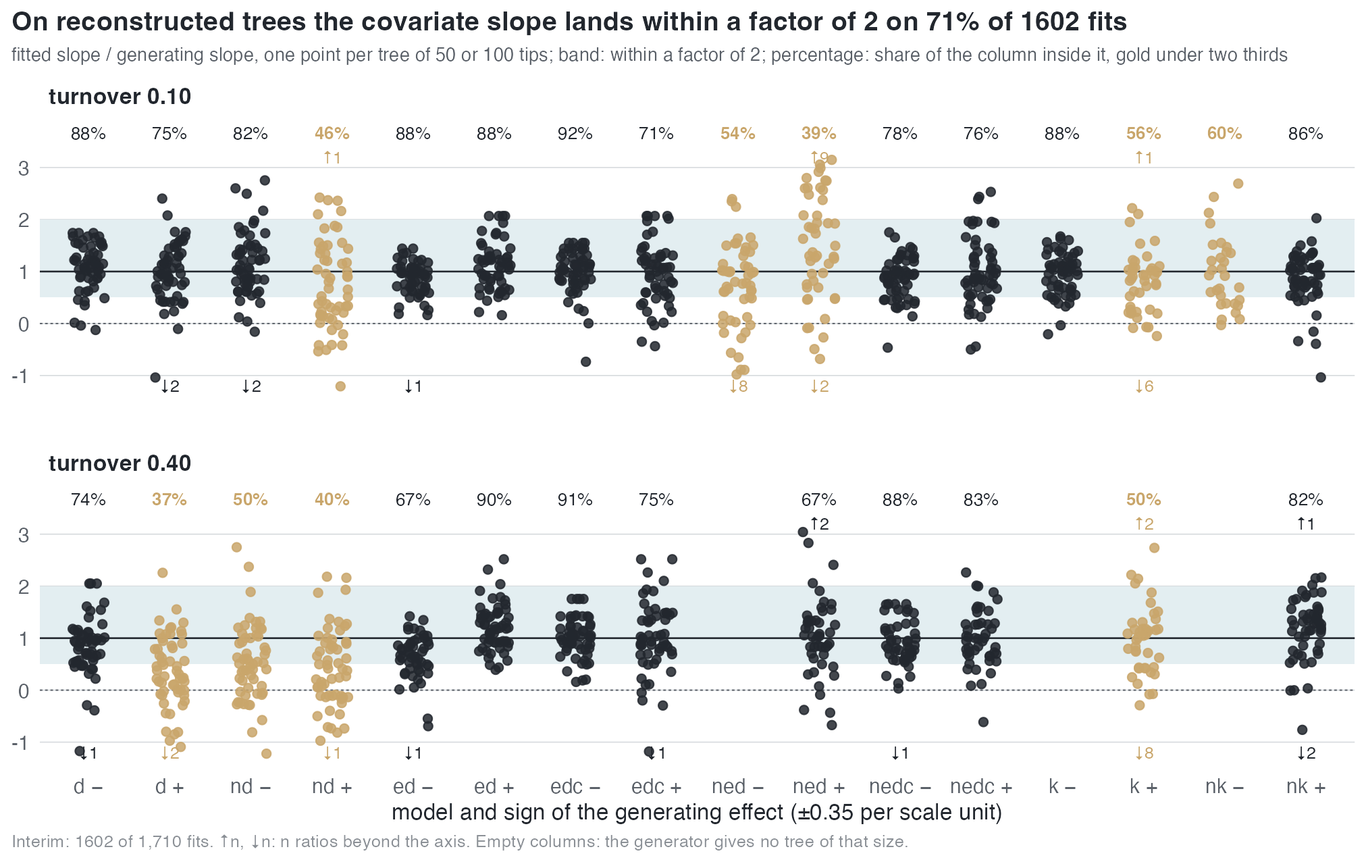
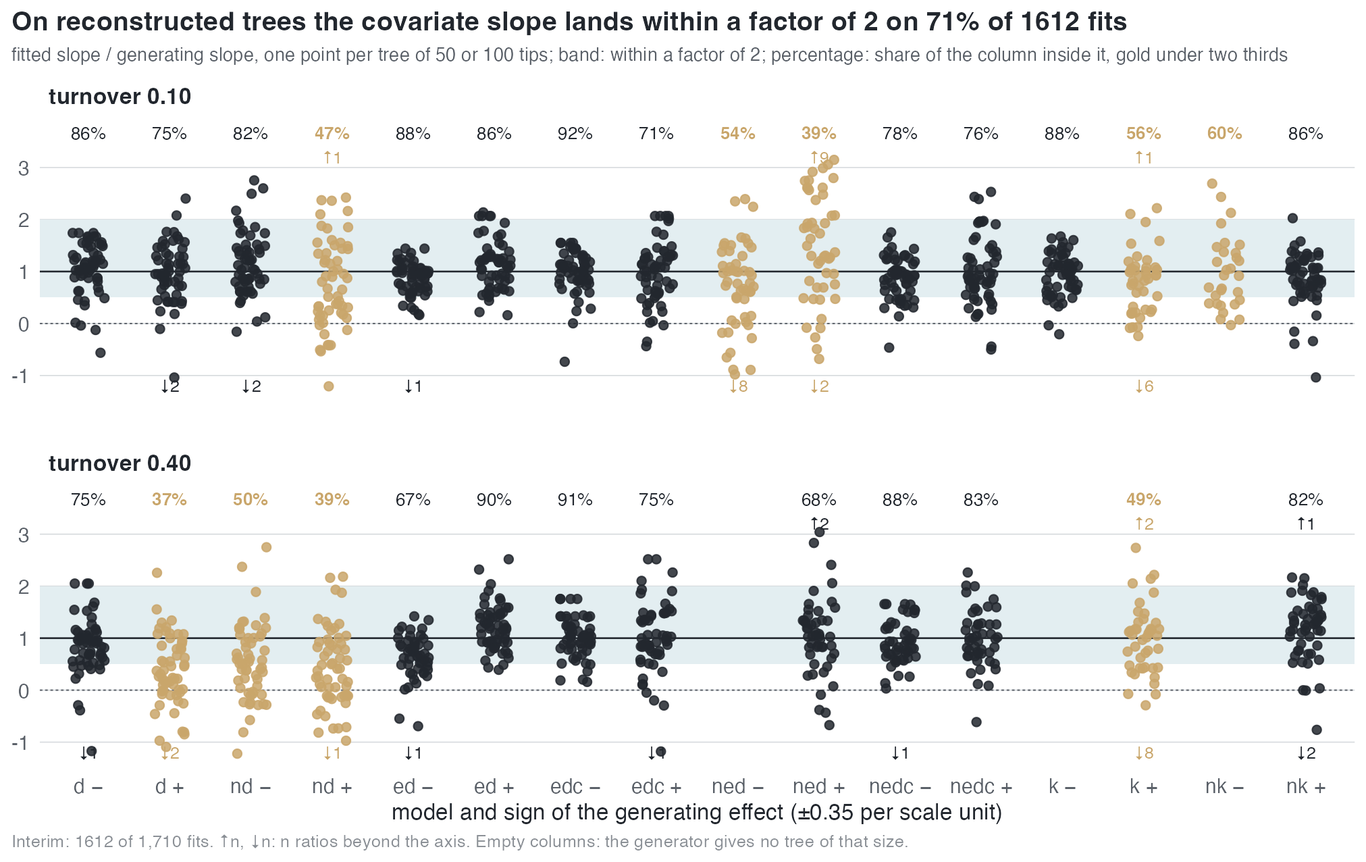
Site rebuilt: state of 23 November (400 tips: nd read; V11b final; V11c interim)

diff --git a/docs/experiments/V5.html b/docs/experiments/V5.html
@@ -58,7 +58,7 @@ window.MathJax = {
 </li>
 <li><a href="#200-tips-v5b">200 tips (V5b)</a>
 </li>
-<li><a href="#400-tips-amendment-of-21-november-running">400 tips (amendment of 21 November), running</a>
+<li><a href="#400-tips-amendment-of-21-november">400 tips (amendment of 21 November)</a>
 </li>
 <li><a href="#the-200--and-400-tip-cells-amendments-of-18-november">The 200- and 400-tip cells (amendments of 18 November)</a>
 </li>
@@ -69,7 +69,7 @@ window.MathJax = {
 <tbody>
 <tr>
 <td>Status</td>
-<td>50 and 100 tips: running, 1,668 of 1,710 fits written on 21 November, 53 of 57 cells read (interim). 200 tips: sampler gate complete (15 of 28 cells pass, <code>d</code> and <code>nd</code> on the surrogate), 450 fits submitted on Bre (array <code>v5b</code>, start after the maintenance of 20 November). 400 tips: gate complete (8 of 24 pass); fits follow the 200-tip reading</td>
+<td>50 and 100 tips: running, 1,678 of 1,710 fits written on 23 November, 54 of 57 cells read (interim). 200 tips: sampler gate complete (15 of 28 cells pass, <code>d</code> and <code>nd</code> on the surrogate), 450 fits submitted on Bre (array <code>v5b</code>, start after the maintenance of 20 November). 400 tips: gate complete (8 of 24 pass); fits follow the 200-tip reading</td>
 </tr>
 <tr>
 <td>Series</td>
@@ -118,16 +118,21 @@ window.MathJax = {
 <h2 id="pre-set-rules">Pre-set rules</h2>
 <p>E46's. A cell is read when at least 80% of its fits finished (converged or on the cap) and the median final effective sample is at least 10. A coefficient is <em>reliable</em> in a cell when the median ratio to its generating value lies in [0.8, 1.25] and the central 80% of ratios within [0.5, 2]; <em>identified</em> when reliable with the right sign on at least 95% of trees. The answer is the smallest size from which each coefficient is reliable.</p>
 <h2 id="results">Results</h2>
-<p><em>Interim, 21 November: 1,668 of 1,710 fits at 50 and 100 tips; 1,602 finished (246 met the stopping rule, 1,356 on the iteration cap, read as the estimate), 65 on the 22-hour clock.</em> A cell is read when at least 24 of its 30 fits finished and its median final effective sample is at least 10: 53 of 57 cells. Table 6 of the methods paper (built by <code>report/paper-tables.R</code>) gives every cell as of 19 November.</p>
+<p><em>Interim, 23 November: 1,678 of 1,710 fits at 50 and 100 tips; 1,612 finished (246 met the stopping rule, 1,366 on the iteration cap, read as the estimate), 65 on the 22-hour clock.</em> A cell is read when at least 24 of its 30 fits finished and its median final effective sample is at least 10: 54 of 57 cells. Table 6 of the methods paper (built by <code>report/paper-tables.R</code>) gives every cell as of 19 November.</p>
 <ul>
-<li><strong>Covariate slopes.</strong> Of 78 slope cells read, 20 meet rule 2, and all 20 are also identified (sign right on at least 95%). <span class="math inline">\(\beta_N\)</span>: at turnover 0.10 in 6 of 7 cells at 100 tips (<code>nd</code> and <code>nedc</code> at both signs, <code>ned</code> and <code>nk</code> at <span class="math inline">\(+0.35\)</span>) and 4 of 8 at 50 (<code>ned</code> and <code>nk</code> at <span class="math inline">\(+0.35\)</span>, <code>nedc</code> at both signs); at turnover 0.40 in none of 10. <span class="math inline">\(\beta_{ED}\)</span>: <code>ed</code> (turnover 0.10 both signs, 0.40 at <span class="math inline">\(+0.35\)</span>), <code>edc</code> (<span class="math inline">\(-0.35\)</span> at both turnovers) and <code>nedc</code> (<span class="math inline">\(-0.35\)</span>, turnover 0.40), all at 100 tips; none in <code>ned</code>. <span class="math inline">\(\beta_K\)</span>: <code>k</code> at <span class="math inline">\(-0.35\)</span> and <code>nk</code> at <span class="math inline">\(+0.35\)</span>, 100 tips, turnover 0.10. <span class="math inline">\(\beta_D\)</span>: <code>d</code> and <code>nd</code> at <span class="math inline">\(-0.35\)</span>, 100 tips, turnover 0.10.</li>
-<li><strong>Intercepts.</strong> <span class="math inline">\(\beta_0\)</span> meets the rule in 24 of 53 cells, in none of the 10 cells of an <span class="math inline">\(N\)</span> model at turnover 0.40. <span class="math inline">\(\gamma_0\)</span> meets it in none; within a factor of 2 on a median 7% of a cell's fits.</li>
-<li><strong>Not read.</strong> <code>k</code> at <span class="math inline">\(+0.35\)</span> (100 tips, turnover 0.10), and at turnover 0.40 and 100 tips <code>ed</code> <span class="math inline">\(-0.35\)</span>, <code>ned</code> <span class="math inline">\(+0.35\)</span> and <code>nedc</code> <span class="math inline">\(+0.35\)</span> (each with 22 or 23 of 30 fits finished).</li>
+<li><strong>Covariate slopes.</strong> Of 80 slope cells read, 21 meet rule 2, and all 21 are also identified (sign right on at least 95%). <span class="math inline">\(\beta_N\)</span>: at turnover 0.10 in 6 of 7 cells at 100 tips (<code>nd</code> and <code>nedc</code> at both signs, <code>ned</code> and <code>nk</code> at <span class="math inline">\(+0.35\)</span>) and 4 of 8 at 50 (<code>ned</code> and <code>nk</code> at <span class="math inline">\(+0.35\)</span>, <code>nedc</code> at both signs); at turnover 0.40 in none of 11. <span class="math inline">\(\beta_{ED}\)</span>: <code>ed</code> (turnover 0.10 both signs, 0.40 at <span class="math inline">\(+0.35\)</span>), <code>edc</code> (<span class="math inline">\(-0.35\)</span> at both turnovers), all at 100 tips, and <code>nedc</code> at turnover 0.40 (<span class="math inline">\(-0.35\)</span> at 100 tips, <span class="math inline">\(+0.35\)</span> at 50); none in <code>ned</code>. <span class="math inline">\(\beta_K\)</span>: <code>k</code> at <span class="math inline">\(-0.35\)</span> and <code>nk</code> at <span class="math inline">\(+0.35\)</span>, 100 tips, turnover 0.10. <span class="math inline">\(\beta_D\)</span>: <code>d</code> and <code>nd</code> at <span class="math inline">\(-0.35\)</span>, 100 tips, turnover 0.10.</li>
+<li><strong>Intercepts.</strong> <span class="math inline">\(\beta_0\)</span> meets the rule in 24 of 54 cells, in none of the 11 cells of an <span class="math inline">\(N\)</span> model at turnover 0.40. <span class="math inline">\(\gamma_0\)</span> meets it in none; within a factor of 2 on a median 7% of a cell's fits.</li>
+<li><strong>Not read.</strong> <code>k</code> at <span class="math inline">\(+0.35\)</span> (100 tips, turnover 0.10), and at turnover 0.40 and 100 tips <code>ed</code> <span class="math inline">\(-0.35\)</span> and <code>nedc</code> <span class="math inline">\(+0.35\)</span>: budget-limited, 22 or 23 of 30 fits finished and the rest on the clock.</li>
 </ul>
 <h2 id="200-tips-v5b">200 tips (V5b)</h2>
 <p><em>22 November: 448 of 450 fits written, 442 finished (the rest on the 44-hour clock); 14 of 15 cells read. <code>d</code> <span class="math inline">\(-0.35\)</span> at turnover 0.40 is sampler-limited (median final effective sample 8.2).</em> Of the 20 slope cells read, 8 are identified: <span class="math inline">\(\beta_D\)</span> of <code>d</code> at both signs and of <code>nd</code> at <span class="math inline">\(-0.35\)</span>; <span class="math inline">\(\beta_N\)</span> of <code>nd</code> at <span class="math inline">\(-0.35\)</span> and of <code>ned</code> at <span class="math inline">\(+0.35\)</span>; <span class="math inline">\(\beta_{ED}\)</span> of <code>edc</code> at <span class="math inline">\(-0.35\)</span> and of <code>ed</code> at <span class="math inline">\(+0.35\)</span> at both turnovers; all at turnover 0.10 except <code>ed</code> at 0.40. Against 100 tips, <code>d</code> <span class="math inline">\(+0.35\)</span> is identified at 200 and not at 100, and <code>nd</code> <span class="math inline">\(+0.35\)</span>'s <span class="math inline">\(\beta_N\)</span> is identified at 100 and not at 200 (median ratio 1.00, 10th percentile 0.44). At turnover 0.40 <code>nd</code>'s <span class="math inline">\(\beta_N\)</span> has a negative median ratio, and only <code>ed</code> <span class="math inline">\(+0.35\)</span> is identified. <span class="math inline">\(\beta_0\)</span> meets the rule in 12 of 14 cells, <span class="math inline">\(\gamma_0\)</span> in none.</p>
-<h2 id="400-tips-amendment-of-21-november-running">400 tips (amendment of 21 November), running</h2>
-<p>Three cells pass the gate and have a slope not reliable at 200 tips: <code>nd</code> <span class="math inline">\(+0.35\)</span> and <code>edc</code> <span class="math inline">\(+0.35\)</span> at turnover 0.10, <code>d</code> <span class="math inline">\(+0.35\)</span> at 0.40; the other five passing cells were identified at 200 and are not fitted at 400. <em>Interim, 22 November: <code>nd</code> <span class="math inline">\(+0.35\)</span> has 19 of 30 fits (a cell is read from 24).</em> So far <span class="math inline">\(\beta_D\)</span> has a median ratio of 1.09 with its 10th to 90th percentiles at 0.58 to 1.42 (at 200 tips: 1.03, 0.29 to 1.82), and <span class="math inline">\(\beta_N\)</span> 0.85 with 0.59 to 1.37 (at 200: 1.00, 0.44 to 1.33). <code>edc</code> and <code>d</code> started on 22 November.</p>
+<h2 id="400-tips-amendment-of-21-november">400 tips (amendment of 21 November)</h2>
+<p>Three cells pass the gate and have a slope not reliable at 200 tips: <code>nd</code> <span class="math inline">\(+0.35\)</span> and <code>edc</code> <span class="math inline">\(+0.35\)</span> at turnover 0.10, <code>d</code> <span class="math inline">\(+0.35\)</span> at 0.40; the other five passing cells were identified at 200 and are not fitted at 400.</p>
+<ul>
+<li><strong><code>nd</code> <span class="math inline">\(+0.35\)</span>, read (29 of 30 fits, 23 November).</strong> Both slopes are identified: <span class="math inline">\(\beta_D\)</span> at a median ratio of 1.05 (10th to 90th percentile 0.55 to 1.42) and <span class="math inline">\(\beta_N\)</span> at 0.92 (0.60 to 1.30), right sign on every tree; at 200 tips neither met the rule (<span class="math inline">\(\beta_D\)</span> 0.29 to 1.82, <span class="math inline">\(\beta_N\)</span> 0.44 to 1.33).</li>
+<li><strong><code>edc</code> <span class="math inline">\(+0.35\)</span>, filling (19 of 30).</strong> So far <span class="math inline">\(\beta_{ED}\)</span> at 1.00 (0.72 to 1.41).</li>
+<li><strong><code>d</code> <span class="math inline">\(+0.35\)</span> at turnover 0.40</strong>: queued.</li>
+</ul>
 <h2 id="the-200--and-400-tip-cells-amendments-of-18-november">The 200- and 400-tip cells (amendments of 18 November)</h2>
 <p><strong>The gate</strong> (<code>sim/V5g.R</code>, <code>results/V5g/gate.csv</code>): on every reachable cell at 200 and 400 tips, the effective sample of 2,400 draws at the generating values on the 30 trees V5 fits, with the fit's proposal. With thinning, the default for <code>d</code> and <code>nd</code>, 7 of their 8 cells keep a median of 1.7 to 7.5 effective draws at 200 tips; the surrogate keeps 143 to 620 on every <code>nd</code> cell and 16 to 256 on every <code>d</code> cell. By the evening amendment <code>d</code> and <code>nd</code> are fitted and gated on the surrogate at 200 and 400 tips, and <code>k</code> at <span class="math inline">\(+0.35\)</span> (median 50 and 55 tips at the 200-tip target) is not a 200-tip cell. <strong>Pass at 200 tips (15 of 28):</strong> <code>d</code> and <code>nd</code> (all 8, surrogate), <code>ed</code> <span class="math inline">\(+0.35\)</span> (both turnovers), <code>edc</code> (turnover 0.10 both signs, 0.40 <span class="math inline">\(+0.35\)</span>), <code>ned</code> (turnover 0.10 both signs). <strong>Pass at 400 tips (8 of 24):</strong> <code>d</code> (turnover 0.10 both, 0.40 <span class="math inline">\(+0.35\)</span>), <code>nd</code> (turnover 0.10 both), <code>ed</code> <span class="math inline">\(+0.35\)</span> and <code>edc</code> (turnover 0.10).</p>
 <p><strong>The 200-tip fits</strong> (<code>sim/V5b.R</code>, <code>results/V5b</code>): 450 fits on the 15 passing cells, 44-hour clock, array <code>v5b</code> on Bre.</p>

diff --git a/docs/experiments/estimability.html b/docs/experiments/estimability.html
@@ -84,7 +84,7 @@ window.MathJax = {
 <li><strong>Under diversity dependence the slowdown is read, but not how it divides.</strong> Speciation at low diversity and its slope on diversity are recovered at low turnover; the estimate tilts extinction, which was generated constant, from 0.1–0.35 of the truth early in a clade's history to 1.2–2.9 times the truth today.</li>
 <li><strong>A complete tree carries enough to estimate most covariate slopes.</strong> With the extinct lineages kept, a slope of ±0.35 per scale unit is estimated within about 0.6 to 1.5 times its value at 100 tips, with the right sign on 95% of trees or more, narrowing at 200; the exceptions are weak slopes (the diversity slope at high turnover, <code>ned</code>'s ED slope).</li>
 <li><strong>On a reconstructed tree the sampler decides first.</strong> <code>ned</code>, <code>nedc</code>, <code>ed</code> with a negative effect, and the thinning proposal at high turnover keep about 10 effective draws of 2400 or fewer at the generating values; <code>d</code>, <code>edc</code> and <code>nd</code> on the surrogate proposal keep hundreds.</li>
-<li><strong>On reconstructed trees, the covariate slopes are recovered in a minority of settings, mostly at 100 tips and low turnover.</strong> By the series' rule, 20 of 78 slope cells read at 50 and 100 tips are identified; the diversity slope is identified in no cell at turnover 0.40 and the extinction intercept in none (interim, 1,668 of 1,710 fits). Fit by fit, the slope lies within a factor of 2 of the truth on 71% of 1,602 fits, with the right sign on 90%.</li>
+<li><strong>On reconstructed trees, the covariate slopes are recovered in a minority of settings, mostly at 100 tips and low turnover.</strong> By the series' rule, 21 of 80 slope cells read at 50 and 100 tips are identified; the diversity slope is identified in no cell at turnover 0.40 and the extinction intercept in none (interim, 1,678 of 1,710 fits). Fit by fit, the slope lies within a factor of 2 of the truth on 71% of 1,612 fits, with the right sign on 90%.</li>
 <li><strong>A lineage-level fit rarely stops by rule, and its speciation side has settled when it reaches the cap.</strong> The default rule stops every <code>cr</code> fit and 28 of 280 lineage-level fits; the capped fits' speciation coefficients lie within 2% of the parameter box of a reference run for 7 of 10 models at turnover 0.10, while the extinction coefficients keep drifting. A fit on the 1000-iteration cap is therefore read as the estimate.</li>
 <li><strong>Model choice does not invent a lineage-level effect, and at 100 tips it misses most real ones.</strong> On trees without one, the ladder chose a lineage-level model on 0 of 54; on trees with an effect of ±0.35 it named the generating covariate on 12 of 20 (<code>nk</code>), 10 of 19 (<code>nd</code>) and 1 of 19 (<code>ned</code>) at turnover 0.10, and the 80% rule fails in 18 of 19 cells.</li>
 <li><strong>Conditioning on survival is a small term, but not a free one.</strong> It moves the log-likelihood by -0.01 to -0.2 at the estimates; for the lineage-level models it has to be estimated by simulation at every parameter value the fit visits.</li>
@@ -197,13 +197,13 @@ window.MathJax = {
 </ul>
 <p>The effective sample at a fitted estimate is a different quantity. Where a fit puts the extinction intercept on the lower edge of its box there are almost no hidden lineages to draw, and the weights are nearly equal: the 35% of fits that end so keep a median 188 of 200 effective draws, against 35 for the others (<code>ned</code>, <code>nedc</code> and <code>ed</code>: medians 184–190). A large effective sample at the estimate says where the estimate is, not that the sampler covers the model.</p>
 <h2 id="covariate-slopes-on-reconstructed-trees-interim">Covariate slopes on reconstructed trees (interim)</h2>
-<p>Every lineage-level model is fitted to 30 trees a cell at 50 and 100 tips, conditioned on survival, by its generating model (<a href="V5.html">V5</a>: 1,710 fits). 1,668 are written; 1,602 finished (246 met the stopping rule, 1,356 reached the iteration cap, which the series reads as the estimate) and 65 ended on the 22-hour clock. A cell is read when at least 24 of its 30 fits finished and its median final effective sample is at least 10: 53 of 57 cells.</p>
+<p>Every lineage-level model is fitted to 30 trees a cell at 50 and 100 tips, conditioned on survival, by its generating model (<a href="V5.html">V5</a>: 1,710 fits). 1,678 are written; 1,612 finished (246 met the stopping rule, 1,366 reached the iteration cap, which the series reads as the estimate) and 65 ended on the 22-hour clock. A cell is read when at least 24 of its 30 fits finished and its median final effective sample is at least 10: 54 of 57 cells.</p>
 <figure id="figure-5">
 <img src="../assets/wiki/est-lineage.png" alt="Fitted covariate slope over its generating value, one point per tree, by model, sign of the effect and turnover, with the share of each column within a factor of 2" loading="lazy">
 <figcaption><strong>Figure 5.</strong> Fitted covariate slope over its generating value, one point per tree, by model, sign of the effect and turnover, with the share of each column within a factor of 2</figcaption>
 </figure><ul>
-<li><strong>By the rule</strong> (median ratio in [0.8, 1.25], central 80% within [0.5, 2]): 20 of the 78 slope cells read meet it, and each is also identified (sign right on at least 95%). The diversity slope at turnover 0.10 in 6 of 7 cells at 100 tips and 4 of 8 at 50; at turnover 0.40 in none of 10. The distinctiveness slope for <code>ed</code> and <code>edc</code> (five cells) and <code>nedc</code> at −0.35 and turnover 0.40, all at 100 tips; none in <code>ned</code>. The ancestral-split slope for <code>k</code> at −0.35 and <code>nk</code> at +0.35, at 100 tips and turnover 0.10. The age-imbalance slope for <code>d</code> and <code>nd</code> at −0.35, at 100 tips and turnover 0.10.</li>
-<li><strong>Fit by fit</strong>, the covariate slope lies within a factor of 2 of its generating value on 71% of the 1,602 finished fits, with the right sign on 90% (fits that met the stopping rule 80%, capped fits 70%). The speciation intercept does on 80% and the extinction intercept on 11%; the extinction intercept meets the rule in no cell.</li>
+<li><strong>By the rule</strong> (median ratio in [0.8, 1.25], central 80% within [0.5, 2]): 21 of the 80 slope cells read meet it, and each is also identified (sign right on at least 95%). The diversity slope at turnover 0.10 in 6 of 7 cells at 100 tips and 4 of 8 at 50; at turnover 0.40 in none of 11. The distinctiveness slope for <code>ed</code> and <code>edc</code> (five cells at 100 tips) and <code>nedc</code> at turnover 0.40 (−0.35 at 100 tips, +0.35 at 50); none in <code>ned</code>. The ancestral-split slope for <code>k</code> at −0.35 and <code>nk</code> at +0.35, at 100 tips and turnover 0.10. The age-imbalance slope for <code>d</code> and <code>nd</code> at −0.35, at 100 tips and turnover 0.10.</li>
+<li><strong>Fit by fit</strong>, the covariate slope lies within a factor of 2 of its generating value on 71% of the 1,612 finished fits, with the right sign on 90% (fits that met the stopping rule 80%, capped fits 70%). The speciation intercept does on 80% and the extinction intercept on 11%; the extinction intercept meets the rule in no cell.</li>
 <li><strong>At 200 and 400 tips</strong> the sampler decides which cells can be fitted: with the surrogate for <code>d</code> and <code>nd</code>, 15 of 28 cells keep at least 10 effective draws at 200 tips and 8 of 24 at 400 (<a href="V5.html">V5</a>); the 200-tip fits are running.</li>
 </ul>
 <h2 id="where-a-fit-stops">Where a fit stops</h2>
@@ -225,7 +225,7 @@ window.MathJax = {
 </ul>
 <p>A slope estimated within a factor of 2 is not a model selected: <code>ned</code>'s ED slope is in that range on about half of its trees and <code>ned</code> is chosen on 1 of 19.</p>
 <h2 id="on-real-trees">On real trees</h2>
-<p>On the 175 real trees MCEM reaches the exact conditioned maximum for <code>cr</code> and <code>dd</code> (median shortfall -0.01 to -0.16; <a href="V4.html">V4</a>). Under the conditioned likelihood, with the <code>nd</code> fit on the surrogate (<a href="V11.html">V11</a>, reading V11b), the sampler limits the lineage-level fits: the final effective sample is below 10 on 66 <code>nd</code>, 45 <code>nk</code> and 24 <code>ned</code> fits of 175, and 63 of the 175 trees have all five fits read (10 refits pending); with the <code>nd</code> fit on thinning, the registered reading, 93 <code>nd</code> fits are below 10 and 49 trees are read. An extinction parameter sits on an edge of the box on 275 of the 354 read lineage-level fits.</p>
+<p>On the 175 real trees MCEM reaches the exact conditioned maximum for <code>cr</code> and <code>dd</code> (median shortfall -0.01 to -0.16; <a href="V4.html">V4</a>). Under the conditioned likelihood, with the <code>nd</code> fit on the surrogate (<a href="V11.html">V11</a>, reading V11b), the sampler limits the lineage-level fits: the final effective sample is below 10 on 66 <code>nd</code>, 45 <code>nk</code> and 24 <code>ned</code> fits of 175, and 63 of the 175 trees have all five fits read (9 incomplete); with the <code>nd</code> fit on thinning, the registered reading, 93 <code>nd</code> fits are below 10 and 49 trees are read. An extinction parameter sits on an edge of the box on 275 of the 354 read lineage-level fits.</p>
 <h2 id="not-yet-known">Not yet known</h2>
 <ul>
 <li>From how many tips each lineage-level coefficient is reliable beyond 100: the 200-tip fits of the cells whose sampler holds are running, and 400 tips follow where a coefficient is not reliable at 200 (<a href="V5.html">V5</a>).</li>
@@ -274,7 +274,7 @@ window.MathJax = {
 <tr>
 <td>reconstructed-tree slopes, intercepts, box edges, effective sample at the estimate</td>
 <td><a href="V5.html">V5</a>, interim</td>
-<td>1,602 fits</td>
+<td>1,612 fits</td>
 </tr>
 <tr>
 <td>where a fit stops</td>

diff --git a/docs/experiments/V11.html b/docs/experiments/V11.html
@@ -67,7 +67,7 @@ window.MathJax = {
 <tbody>
 <tr>
 <td>Status</td>
-<td>read on 21 November 2026 with the <code>nd</code> fit on the surrogate proposal (amendment of 2026-11-19, V11b): 63 of 175 trees read, on them the conditioned ladder makes the unconditioned choice of <a href="E40.html">E40</a> on 60 of 63; all 175 <code>nd</code> refits in, the 10 refits on the 44-hour clock (nine <code>nk</code>, one <code>ned</code>) queued on Bre. The reading with the thinning <code>nd</code> fits (865 of 875 fits, 18 November) is the registered one and is reported beside it</td>
+<td>read on 21 November 2026 with the <code>nd</code> fit on the surrogate proposal (amendment of 2026-11-19, V11b): 63 of 175 trees read, on them the conditioned ladder makes the unconditioned choice of <a href="E40.html">E40</a> on 60 of 63; all 175 <code>nd</code> refits in; of the 10 fits refitted on a 44-hour clock (nine <code>nk</code>, one <code>ned</code>), one returned (Soricidae <code>ned</code>, its tree still unread) and nine exceeded the cluster's 46-hour task limit, so 9 trees stay incomplete. The reading with the thinning <code>nd</code> fits (865 of 875 fits, 18 November) is the registered one and is reported beside it</td>
 </tr>
 <tr>
 <td>Series</td>
@@ -112,7 +112,7 @@ window.MathJax = {
 <h2 id="amendment-of-19-november-v11b">Amendment of 19 November (V11b)</h2>
 <p>The <code>nd</code> fit on its default thinning proposal is unread for an effective sample below 10 on 93 of 175 trees (final effective sample below 10 on 101; median 7.4). Every tree's <code>nd</code> fit is refitted with the surrogate proposal (<code>control$sampling = "bdi"</code>), otherwise as above, with an 18-hour clock, and the 10 fits the cluster stopped (nine <code>nk</code>, one <code>ned</code>) are refitted as above with a 44-hour clock (<code>sim/V11b.R</code>, <code>results/V11b</code>). <a href="V5.html">V5</a>'s gate measured 143 to 620 effective draws with the surrogate on simulated <code>nd</code> trees of 200 tips, where thinning keeps 2 to 8. The reading replaces each tree's <code>nd</code> row by its V11b row and adds the refitted rows; everything else is V11's reading. The reading with the surrogate <code>nd</code> is the one the papers report; the reading with the thinning <code>nd</code> stays recorded as the registered one and is given beside it.</p>
 <h2 id="results">Results</h2>
-<p>Read 21 November (<code>sim/V11-analysis.R</code> <code>--v11b</code>, <code>sim/V11-report.R --dir results/V11b</code>; tables in <code>results/V11b/</code>). The 10 refits on the 44-hour clock are not yet in; their trees are counted as incomplete. A fit is read when it ended converged or on the 1000-iteration cap with a finite log-likelihood and a final effective sample of at least 10 (the protocol of the amendment of 2026-11-11); a tree is read when its five ladder fits are; the choice is the fewest parameters within 2 AIC of the minimum.</p>
+<p>Read 21 November (<code>sim/V11-analysis.R</code> <code>--v11b</code>, <code>sim/V11-report.R --dir results/V11b</code>; tables in <code>results/V11b/</code>). Of the 10 fits refitted on a 44-hour clock one returned and nine exceeded the cluster's 46-hour task limit; their 9 trees are counted as incomplete. A fit is read when it ended converged or on the 1000-iteration cap with a finite log-likelihood and a final effective sample of at least 10 (the protocol of the amendment of 2026-11-11); a tree is read when its five ladder fits are; the choice is the fewest parameters within 2 AIC of the minimum.</p>
 <p><strong>Fits.</strong> 697 of 865 read: <code>cr</code> 175 of 175, <code>dd</code> 168, <code>ned</code> 143, <code>nk</code> 108, <code>nd</code> 103. The <code>nd</code> fits on the surrogate have a median final effective sample of 13.0; 102 of the 103 read ones end on the iteration cap. The unread fits are at an effective sample below 10 (139: <code>nd</code> 66, <code>nk</code> 45, <code>ned</code> 24, <code>dd</code> 4), on the clock (19) or without a log-likelihood (10).</p>
 <p><strong>Trees.</strong> 63 read, 102 unread, 10 incomplete (a job without a row); 48 of the read trees are class-tree clades and 15 Condamine families. Of the 102 unread trees, <code>nd</code> fails on 67 (on 33 it is the only model that fails), <code>nk</code> on 57, <code>ned</code> on 31, <code>dd</code> on 6. The read trees have 50–196 tips (median 111), the unread ones 50–370 (median 116).</p>
 <p><strong>Choice on the 63 read trees:</strong> <code>cr</code> 4, <code>dd</code> 12, <code>nd</code> 2, <code>ned</code> 24, <code>nk</code> 21 — a lineage-level model on 47. By set: class-tree clades <code>cr</code> 2, <code>dd</code> 7, <code>nd</code> 1, <code>ned</code> 20, <code>nk</code> 18; Condamine families <code>cr</code> 2, <code>dd</code> 5, <code>nd</code> 1, <code>ned</code> 4, <code>nk</code> 3. By class, 51 of the read trees are birds (lineage-level on 44) and 12 mammals (on 3). Against <a href="E40.html">E40</a>'s unconditioned choice on the same trees the choice is the same on 60 of 63; the three that differ move from <code>cr</code> to <code>dd</code>, from <code>cr</code> to <code>nd</code> and from <code>nk</code> to <code>ned</code>. <span class="math inline">\(\beta_K\)</span> is positive on all 21 <code>nk</code> trees (median 0.140). A richer read fit lies more than 1 log-likelihood unit below the model it nests on 1 read tree.</p>
@@ -122,7 +122,7 @@ window.MathJax = {
 <p><strong>The thinning reading (V11, registered).</strong> Read 18 November (<code>results/V11/</code>): 668 of 865 fits read (<code>nd</code> 74); 49 trees read, 116 unread, 10 incomplete; <code>nd</code> fails on 93 of the 116 unread trees. Choice on the 49: <code>cr</code> 5, <code>dd</code> 9, <code>nd</code> 2, <code>ned</code> 17, <code>nk</code> 16, a lineage-level model on 35 (median Colless 2.59 against 0.67 for <code>cr</code> or <code>dd</code>); E40's choice kept on 46 of 49; <span class="math inline">\(\beta_K\)</span> positive on all 16 <code>nk</code> trees (median 0.148); 17 family trees read; both members of 2 pairs read.</p>
 <p><strong>What it does not settle.</strong> On simulated trees of about 100 tips the same ladder names a lineage-level model on 0 of 54 trees without one and misses most real effects (<a href="V7.html">V7</a>); on real trees it names one on 47 of 63 read trees. Whether those choices reflect a lineage-level process or a feature of real trees that the simulations lack (imbalance, the processes of <a href="V9.html">V9</a>) is not decided by V11.</p>
 <h2 id="v11c-amendment-of-21-november-running">V11c (amendment of 21 November), running</h2>
-<p>Every tree's <code>nd</code> and <code>nk</code> fit refitted with 1000 draws per E-step (V11 and V11b used 200), <code>nd</code> first. <em>Interim, 22 November: 42 of 350 fits, all <code>nd</code>.</em> On these 42 trees the <code>nd</code> fit is read on 28 with 1000 draws against 25 with 200 (V11b): 7 trees gain a read <code>nd</code> fit and 4 lose one; the median final effective sample rises from 14.6 to 25.4. Of the 7 gained, 3 make the tree read in full (its other four fits are read). Expected to end around 27-28 November.</p>
+<p>Every tree's <code>nd</code> and <code>nk</code> fit refitted with 1000 draws per E-step (V11 and V11b used 200), <code>nd</code> first. <em>Interim, 23 November: 60 of 350 fits, all <code>nd</code>.</em> On these 60 trees the <code>nd</code> fit is read on 41 with 1000 draws against 40 with 200 (V11b): 9 trees gain a read <code>nd</code> fit and 8 lose one, while the median final effective sample rises from 18.8 to 25.4. Of the 9 gained, 4 make the tree read in full. Expected to end around 27-28 November.</p>
 
 </article>
 </main>

diff --git a/docs/real-phylogenies.html b/docs/real-phylogenies.html
@@ -66,7 +66,7 @@ window.MathJax = {
 </li>
 </ol>
 </nav>
-<p>The trees are the bird and mammal family trees of Condamine et al. (2019) with 50 to 400 tips, a tip-depth spread of at most 15% of the crown age and a sampling fraction against the class tree between 0.5 and 1.10 (59 trees, <span class="math inline">\(\rho\)</span> taken as <span class="math inline">\(\min(\rho, 1)\)</span>), and the bird and mammal class trees (McTavish et al. 2025, 10,824 tips; Upham et al. 2019, 5,912 tips) cut from the root into disjoint clades of 50 to 200 tips (116 clades, <span class="math inline">\(\rho = 1\)</span>); 30 clades stand for a family that also has a Condamine tree, and make the pairs. Every tree is fitted by the five models of the ladder under the protocol of the validation series (<a href="experiments/V11.html">V11</a>): conditioned on survival, emphasis <code>b21083f</code>, 200 draws, <code>projected</code>, a fit on the 1000-iteration cap read as the estimate, a 22-hour clock (the surrogate <code>nd</code> fits 18 hours). A fit is read when it ended by its rule or on the cap with a final effective sample of at least 10; a statement about one model rests on that model's read fits, and a model choice on the trees whose five fits are read. The <code>nd</code> fit is the one on the surrogate proposal (the reading of <a href="experiments/V11.html">V11</a>'s amendment V11b; 10 refits of <code>nk</code> and <code>ned</code> pending); the reading with the thinning <code>nd</code>, the registered one, is given beside it. The <code>cr</code>, <code>dd</code>, <code>ned</code> and <code>nk</code> fits are the same in both readings.</p>
+<p>The trees are the bird and mammal family trees of Condamine et al. (2019) with 50 to 400 tips, a tip-depth spread of at most 15% of the crown age and a sampling fraction against the class tree between 0.5 and 1.10 (59 trees, <span class="math inline">\(\rho\)</span> taken as <span class="math inline">\(\min(\rho, 1)\)</span>), and the bird and mammal class trees (McTavish et al. 2025, 10,824 tips; Upham et al. 2019, 5,912 tips) cut from the root into disjoint clades of 50 to 200 tips (116 clades, <span class="math inline">\(\rho = 1\)</span>); 30 clades stand for a family that also has a Condamine tree, and make the pairs. Every tree is fitted by the five models of the ladder under the protocol of the validation series (<a href="experiments/V11.html">V11</a>): conditioned on survival, emphasis <code>b21083f</code>, 200 draws, <code>projected</code>, a fit on the 1000-iteration cap read as the estimate, a 22-hour clock (the surrogate <code>nd</code> fits 18 hours). A fit is read when it ended by its rule or on the cap with a final effective sample of at least 10; a statement about one model rests on that model's read fits, and a model choice on the trees whose five fits are read. The <code>nd</code> fit is the one on the surrogate proposal (the reading of <a href="experiments/V11.html">V11</a>'s amendment V11b; 9 trees incomplete, a fit over the cluster's 46-hour limit); the reading with the thinning <code>nd</code>, the registered one, is given beside it. The <code>cr</code>, <code>dd</code>, <code>ned</code> and <code>nk</code> fits are the same in both readings.</p>
 <h2 id="diversity-dependence">Diversity dependence</h2>
 <figure id="figure-1">
 <img src="assets/wiki/fig-p-real-ddgamma.png" alt="dd lead against gamma" loading="lazy">

diff --git a/docs/experiments/index.html b/docs/experiments/index.html
@@ -219,7 +219,7 @@ window.MathJax = {
 <td><a href="V5.html">V5</a></td>
 <td>From how many tips is each lineage-level coefficient recovered?</td>
 <td>Running</td>
-<td>Interim at 50 and 100 tips (1,668 of 1,710 fits): 20 of 78 slope cells identified, mostly at 100 tips and turnover 0.10; <span class="math inline">\(\beta_N\)</span> nowhere at 0.40; no extinction intercept anywhere. 200 tips (V5b, 448 of 450 fits): 8 of 20 slope cells identified, all but one at turnover 0.10. 400 tips: three cells fitting.</td>
+<td>Interim at 50 and 100 tips (1,678 of 1,710 fits): 21 of 80 slope cells identified, mostly at 100 tips and turnover 0.10; <span class="math inline">\(\beta_N\)</span> nowhere at 0.40; no extinction intercept anywhere. 200 tips (V5b, 449 of 450 fits): 8 of 20 slope cells identified, all but one at turnover 0.10. 400 tips: <code>nd</code> <span class="math inline">\(+0.35\)</span> read, both slopes identified (neither was at 200); two cells fitting.</td>
 </tr>
 <tr>
 <td><a href="V6.html">V6</a></td>
@@ -254,8 +254,8 @@ window.MathJax = {
 <tr>
 <td><a href="V11.html">V11</a></td>
 <td>The ladder on the real trees, conditioned</td>
-<td>Read; 10 refits pending</td>
-<td>With the <code>nd</code> fit on the surrogate (V11b), 63 of 175 trees read; on them a lineage-level model is chosen on 47, on the least balanced trees, and E40's choice is kept on 60; the <span class="math inline">\(K\)</span> factor is above 1 on 104 of 108 read <code>nk</code> fits. With the thinning <code>nd</code> (the registered reading) 49 trees are read, 35 lineage-level. V11c (registered 21 November) refits every <code>nd</code> and <code>nk</code> fit with 1000 draws: 42 of 350 in, <code>nd</code> read on 28 of those trees against 25 with 200 draws.</td>
+<td>Read; V11c running</td>
+<td>With the <code>nd</code> fit on the surrogate (V11b), 63 of 175 trees read; on them a lineage-level model is chosen on 47, on the least balanced trees, and E40's choice is kept on 60; the <span class="math inline">\(K\)</span> factor is above 1 on 104 of 108 read <code>nk</code> fits. With the thinning <code>nd</code> (the registered reading) 49 trees are read, 35 lineage-level. V11c (registered 21 November) refits every <code>nd</code> and <code>nk</code> fit with 1000 draws: 60 of 350 in, <code>nd</code> read on 41 of those trees against 40 with 200 draws.</td>
 </tr>
 <tr>
 <td><a href="V12.html">V12</a></td>

diff --git a/docs/experiments/validation.html b/docs/experiments/validation.html
@@ -86,7 +86,7 @@ window.MathJax = {
 <td><a href="V5.html">V5</a></td>
 <td>recovery and tree size</td>
 <td>E2, E12, E16, E18, E19, E21, E24, E29, E30</td>
-<td>interim at 50/100 tips (1,668 of 1,710 fits, 53 of 57 cells read): 20 of 78 slope cells identified; 200 tips (448 of 450 fits, 14 of 15 cells read): 8 of 20 slope cells identified; 400 tips running on the three cells not reliable at 200</td>
+<td>interim at 50/100 tips (1,678 of 1,710 fits, 54 of 57 cells read): 21 of 80 slope cells identified; 200 tips (449 of 450 fits, 14 of 15 cells read): 8 of 20 slope cells identified; 400 tips: <code>nd</code> <span class="math inline">\(+0.35\)</span> read with both slopes identified, two cells fitting</td>
 </tr>
 <tr>
 <td><a href="V6.html">V6</a></td>
@@ -122,7 +122,7 @@ window.MathJax = {
 <td><a href="V11.html">V11</a></td>
 <td>real phylogenies</td>
 <td>E26, E28, E40, E48</td>
-<td>read with the surrogate <code>nd</code> (V11b): 63 of 175 trees read, lineage-level choice on 47 (10 refits pending); with the thinning <code>nd</code>, the registered reading, 49 and 35; V11c (1000 draws) running, 42 of 350 fits</td>
+<td>read with the surrogate <code>nd</code> (V11b): 63 of 175 trees read, lineage-level choice on 47 (9 trees incomplete); with the thinning <code>nd</code>, the registered reading, 49 and 35; V11c (1000 draws) running, 60 of 350 fits</td>
 </tr>
 <tr>
 <td><a href="V12.html">V12</a></td>
